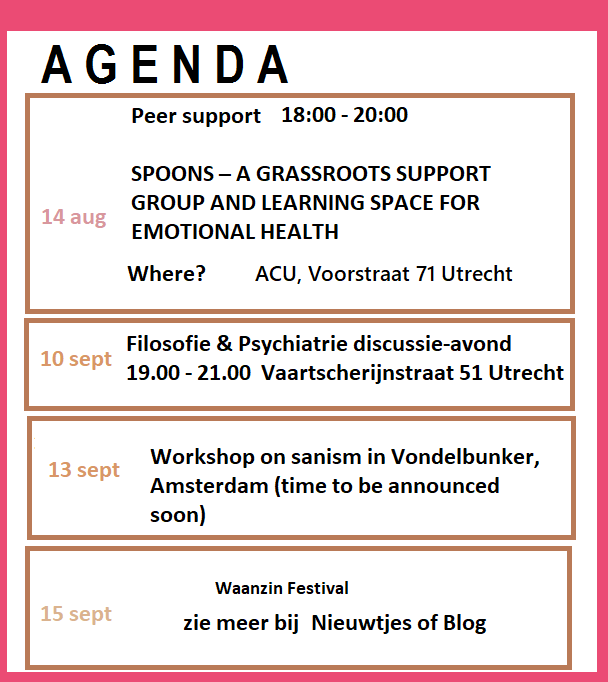
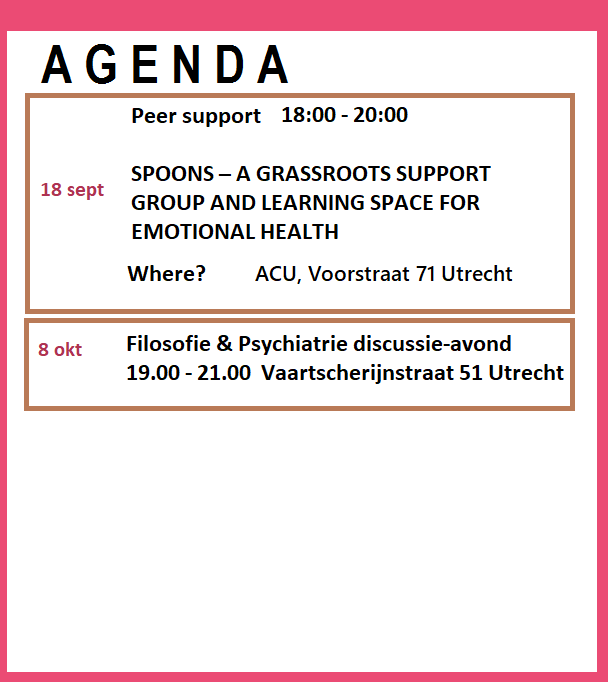
18sep18

Changed region(s): [[0.0312, 0.585, 0.9688, 0.9853], [0.0625, 0.2463, 0.1875, 0.3387], [0.0625, 0.4927, 0.1875, 0.5543]]

diff --git a/nieuws.html b/nieuws.html
@@ -66,12 +66,92 @@
 
 <h2>Nieuws</h2>
 <p><br>
+NIEUW: 16 Sept: <a href=#16sept>De zorgwekkende horizon van 2020 [Dutch]<a><br>
 24 Juli: <a href=#24juli>Een kritische boodschap op Waanzin Festival dit jaar!<a><br>
 23 Juli: <a href=#23juli>A new peer support group starts! Meet Spoons.<a><br>
 10 Mei: <a href=#1mei>Spreekuur 89 speech op 1 Mei: Sloop muren, geen mensen! [Also in English: Our Speech at MayDay. Destroy walls, not people!]</a><br>
 8 April: <a href=#april>Het noodlijdende Weglaufhaus Berlin mag niet ten onder gaan!</a><br>
 8 Maart: <a href=#maart>Spreekuur 89 in de Groene Amsterdammer</a><br><br>
 <br>Ook nieuws te melden? Stuur het naar info@spreekuur89.nl</p>
+
+</section>
+
+
+
+
+
+
+
+<section>
+
+<section class= "middelen4">
+
+
+<h2 id=16sept>Een kritische boodschap op Waanzin Festival dit jaar!</h2>
+<p>
+<i>Posted on 16 Sept<br><br></i>
+
+<b>Op 16 september was ik te zien bij EO programma Nieuw Licht. Hieronder een stuk waarin ik mijn standpunten nog verder uitwerk. Ik heb namelijk grote zorgen.</b><br><br>
+
+
+<iframe width="800" height="500"  src="https://www.youtube.com/watch?v=6K1aPlfgTsU&feature=youtu.be" frameborder="6" align="centre" allowfullscreen></iframe>
+
+
+<br><br>
+De timing van de uitzending lijkt als geroepen te komen. Niet omdat er recent een groot incident is gebeurd, maar waarschijnlijk omdat het Schakelteam Personen met Verward Gedrag over twee weken een aanpak voor ‘personen met verward gedrag’ gaat presenteren. In het Reformatorisch Dagblad lezen we dat de ‘Tweede Kamer boos is over falende aanpak personen met verward gedrag’. Wordt hier extra politieke druk opgelegd? Of wordt er weer een legitimatiebodem gecreerd voor beleid dat de staatsmacht in weerzinwekkende mate gaat vergroten op haar onderdanen? Een gevoel van een veiligheidscrisis wordt gecreerd waardoor we wegkijken naar de echte gevolgen van het beleid dat ons te wachten staat: ‘De Tweede Kamer is boos dat de sluitende aanpak van personen met verward gedrag nog steeds geen feit is en  daarmee het risico dat een enkele ernstig verward persoon gewelddadig zou kunnen worden blijft voortbestaan’. <br><br>
+Ik heb een slachtoffer ontmoet van een ernstig mesincident. Een wildvreemde die opeens op je insteekt. Hij heeft nog steeds levensbedreigend letsel. Ik vind de man erg dapper en genuanceerd en ik gun dit incident aan niemand. Des te meer vind ik het wrang dat zijn verhaal hoogstwaarschijnlijk ‘gebruikt’ zal worden voor het introduceren en rechtvaardigen van een weerzinwekkende beleidsagenda die onschuldigen gaat raken.  Want voor mensen die een ander neersteken hebben we allang een systeem om hen te ‘straffen’ en tot de orde te roepen. Dat het systeem in dit geval faalt, is verbazingwekkend, maar heeft weinig te maken met het nieuwe beleid en met ‘verwarde personen’ zelf. Er is hier een ander probleem aan de hand dan de ‘gevaarlijke verwarde persoon’ die rondloopt als potentiele messteker. Het probleem is dat de staat de situatie tussen slachtoffer en dader geheel overneemt, juridiseert en dat er niet meer naar het slachtoffer wordt geluisterd – die voelt zich vervreemd. Vreselijk voor het slachtoffer! Als ik hem spreek lijkt hij door die behandeling door het OM dubbel getraumatiseerd. <br><br>
+Zelf ben ik er helemaal niet voor dat een OM het overneemt en dat iemand de giftige gevangenis in verdwijnt. Bij elke dader moet gekeken worden wat er gedaan kan worden dat diegene straks een beter medemens wordt voor anderen, niet alleen naar individuele, maar ook naar collectieve factoren moet dan gekeken worden. En bovenaf: ieders eigen verantwoordelijkheid, voor het eigen handelen, moet erkend worden. Anders produceer je bijna daders. Je demoraliseert mensen als je hun morele verantwoordelijkheid ontkent, en ze zo gaat behandelen. Strafrechtmediation, ofwel herstelrecht, is een hoopvolle ontwikkeling. Veel beter voor het slachtoffer om het trauma te verwerken, en het roept de dader directer tot diens morele verantwoordelijkheid. En het is ook nog goedkoper. <br><br>
+<b>Weerzinwekkend beleid aan de horizon</b><br><br>
+Wat is dan die beleidsagenda waar ik me zo’n zorgen over maak, en waarvoor dit verhaal valselijk lijkt te worden aangewend? Wel: de Wet Verplichte Ggz en een heleboel maatregelen die – toevallig of niet? – over krapweg twee weken zullen worden aangekondigd door het Schakelteam Personen met Verward Gedrag. Daar mocht het in de uitzending expliciet nog niet over gaan, om zo is mij verteld in beleidskringen, ‘indianenverhalen’ te voorkomen. Het gaat dan niet alleen om mensen die al een ander hebben aangevallen (en dan gek genoeg ook alleen om het ‘verwarde’ deel van de daders, want bij het overgrote normale deel vinden we het ineens niet zo erg of zo), het gaat ook om mensen waarop geprojecteerd wordt dat zij een potentiele messteker zullen zijn. Zij kunnen straks:<br><br>
+•	Alleen al als een politieagent vermoed dat zij gevaarlijk zijn, zonder strafbare verdenking, maximaal 18 uur worden vastgezet in afwachting van psychiatrisch onderzoek (dat gebeurt overigens al)<br>
+•	De groep waarvan een psychiater vaststelt dat zij gevaarlijk zouden kunnen zijn (overigens volgens een veel breder begrip van gevaar dan ‘iemand anders aanvallen’, zoals ‘ernstig financieel nadeel’ of een toekomstige psychische crisis). Maar psychiatrische risico-taxaties zijn geen raketwetenschap, en een professor gaf een keer toe dat agressie voorspellen ontzettend moeilijk is. Er zullen dus zogenaamde onterechte negatieven blijven: mensen die ‘onterecht’ op straat lopen terwijl ze gevaarlijk zijn. En daar horen we constant over in de media, terwijl geen enkel beleid – behalve een complete politiestaat – dat kan voorkomen. Maar er zijn ook onterechte positieven: mensen die ‘onterecht’ van hun vrijheid worden, mensen die niet gevaarlijk zijn. In een vergelijkbaar politiek debat in Groot-Brittannie waarschuwden psychiaters dat er steeds meer onterechte positieven zullen zijn in deze angstsamenleving, want iedereen kijkt naar psychiaters als het dan toch misgaat. Zo’n dakloze man die op de samenleving loopt te schelden maar verder waarschijnlijk niemand een vlieg kwaad doet: die kan het subject worden van deze praktijken. En we vergeten, dat mensen wiens vrijheid onterecht wordt afgenomen, dat dit ook een hele traumatiserende tragedie is die soms jaren kan duren! Die schrijnende verhalen horen we nooit in de media. Onder de Wet Verplichte Ggz krijgen zij huiszoekingen, kunnen ze gefouilleerd worden in eigen huis, bezoekbeperkingen opgelegd krijgen, communicatiemiddelen-verbod opgelegd krijgen, en gedwongen medicatie. In hun eigen veilige huis! Voor onbepaalde tijd: want het kan telkens worden verlengd. En het is Kafkaesk als de pest: als je daar boos over wordt – wat elk normaal mens zou worden – dan is dat een bewijs van de ernst van jouw toestand. En deze mensen hebben werkelijk niets te maken met een man die over straat loopt en iemand zomaar neersteekt, en toch wordt dit verhaal als voer voor beleidsmakers die de greep van de staat op de afwijkende onderdanen nog groter willen maken. <br>
+•	Daders die als ‘verward’ worden bestempeld die– ook bij lichte delicten – veel langer hun vrijheid verliezen dan ‘normale’ mensen die precies hetzelfde hebben gedaan, omdat eerstgenoemden zogenaamd niet moreel verantwoordelijk zouden zijn voor hun handelen.<br>
+Uitzonderlijk, ook al onder het huidige beleid, is dat de dader er zo licht vanaf komt. Ik ben niet per se voorstander van tbs of gevangenissen. Maar het is wel uitzonderlijk en ongelofelijk, als je het vergelijkt met andere gevallen. Ik ken mensen die voor veel minder, voor iemand slaan in een ruzie – dus met een aanleiding en niet lukraak uit de hoek een vreemde steken – jaren in de tbs verdwijnen. Ik schrijf namelijk brieven met gevangenen of met familieleden van gevangenen. Vaak raak je juist veel langer je vrijheid kwijt als je (gedeeltelijk) ontoerekeningsvatbaar wordt verklaard dan daders die ‘normaal’ worden bevonden, want tbs kan oneindig verlengd worden!<br>
+
+
+<b>
+De keiharde illusie die dit beleid voedt</b><br>
+We zitten eigenlijk vast in een keiharde, historische illusie: dat het normale een superieure morele autoriteit heeft, dat het kwaad elleen vanuit het abnormale komt. Maar het kwad Vanuit elke hoek kan komen, ook vanuit gerespecteerde hoeken. Het is iets vreselijks als een hele bevolking toegeeft aan het idee dat een deel van de bevolking continu onder toezicht moet, verdachte is, onder omstandigheden waaronder geen enkel van hen zelf dat zou accepteren.  Ik schrik heel erg, hier ook weer, van het apart zetten van een zogenaamde groep mensen wiens vrijheid, wiens onschuldige vrijheid, ineens onder vuur moet staan dat dit hier aan de gang is in mijn samenleving. En dit kan echt, dit precies, tot heel tiranniek gedrag leiden, dat losstaat van of men een boog om ons heenloopt, of met ons gaat praten. Soms is dat laatste zelfs nog schadelijker. Het probleem is niet dat de samenleving mensen in de steek zou laten. Heel veel normale mensen maken zich zorgen over mensen die afwijkend doen, of in de knel zitten. Het probleem is een onderdrukkend systeem aan aannames, dat historisch al de wrede neiging heeft gevoed van de gemeenschap van de rede om de waanzin en alles dat afwijkt te detineren, te disciplineren. Zulke aannames zijn niet opeens verdwenen, en zolang dit zo blijft, kan ik niet optimistisch als ik hoor over een campagne die aanspoort tot meer omkijken naar elkaar. Want dan vraag ik me af: Is het omkijken naar elkaar of is het een bepaalde groep in de gaten houden, toezicht houden?<br>
+Er wordt vaak geroepen: maar die man was schizofreen! Die man was psychotisch! Ja dus? Ik ken genoeg psychotici die geen geweldsdelict plegen. Het waanidee hebben dat iemand met je partner naar bed ging en jaloers zijn is één ding. Iemand willen neersteken is een tweede. Dat getuigt van een disrespect voor iemand lijf en leven: iemands vrijheid om gezond en zonder zorgen over aangevallen worden, over straat te gaan. Je had ook met iemand kunnen praten, flink kunnen schreeuwen tegen diegene, diegene flink kunnen uitschelden, en verder kunnen gaan met je leven. Net zoals we onder ‘normale’ mensen rotzakken hebben en mensen die gelukkig wat meer morele verantwoordelijkheid nemen voor hun handelen, is dat ook zo onder psychotici.<br>
+Mensen maken zichzelf al zo lang iets wijs, dat ze mensen die zich op een voor hen onbegrijpelijke wijze gedragen oprecht niet zien als gelijkelijk onschuldig als zij. Men moet leren dat we allemaal gelijkwaardig zijn, van vlees en bloed, we willen uiteindelijk allemaal hetzelfde, vrij zijn van vernedering en aangevallen worden, en we willen allemaal gewoon fijn leven. En bij ieder individu die dat niet respecteert, moeten natuurlijk maatregelen worden getroffen. Maar we kunnen niet één groep bij voorbaat als zondebok uitkiezen omdat we alle geweld willen voorkomen in een samenleving. Sterker nog: we zouden juist daarmee een nieuwe geweldshandeling plegen.<br><br>
+
+
+<b>Een kunstmatige orde in crisis: de angst voor de disruptieve arme</b>
+Disclaimer: er kunnen geen algemene uitspraken worden gedaan over mensen die we verwardheid toeschrijven. Wij tonen een diverse verzameling gedragingen die onbegrijpelijk en afwijkend gevonden werden. Een deel daarvan, niemand weet hoe groot, bevat een groep mensen die in de stress zitten. Het verbaast mij inderdaad niet dat deze groep lijkt te stijgen: we leven in een steeds ongelijker land, met steeds minder betaalbare woningen, en steeds meer flexbanen, steeds meer werkdruk. En het verbaasd me ook niet gezien we in een prestatiemaatschappij leven, die zorgt, zoals de filosoof Byung Chun Han zegt, voor een vermoeide samenleving. Je moet economisch succesvol zijn, anders ben je een soort totale loser. Steeds meer mensen zijn dat zat, dat komt ook terug in mijn statistieken: in OECD landen, 40% tot 60% van de mensen vind dat de samenleving teveel nadruk legt op werken en rijk worden. 40 tot 60% (World Values Survey)! <br>
+Het systeem verliest legitimiteit, en heeft daarom meer dwang nodig. Meer vroegsignalering, meer risicotaxaties, wetten die het makkelijker maken om mensen buitenstrafrechtelijk te onderwerpen aan huiszoekingen en gedwongen medicatie. Want Nederland is toch een een gaaf land? zei Rutte. Iedereen waarmee het niet goed gaat, die last heeft van de neoliberale caroussel, die hebben we even apart gezet en als vreemd bestempeld. Vind je Nederland niet zo tof? Dan ben je in de war! Deze kunstmatige neoliberale orde heeft het kennelijk nodig om steeds vaker mensen abrupt van hun vrijheid te beroven,  door politie of psycholances te laten oppikken als zij te hard schreeuwen tegen dit systeem – zoals die dakloze man in het filmpje (waarover Tijs van den Brink inmiddels een <a href="https://visie.eo.nl/2018/09/de-meeste-verwarde-mensen-zijn-aardig/">mooi stuk</a> heeft geschreven). De meeste 'verwarde' mensen zijn aardig, net als de meeste normale mensen aardig zijn.<br> 
+Stel jij bent dakloos geworden door allerlei nadelen in de samenleving: woningtekort, onmogelijkheid zonder kapitaal een zaak te beginnen, onmogelijkheid om als excentriek persoon een baan te krijgen met solliciteren. Wat zou je dan doen als iemand met een camera op je af stapt met een kinderlijke toon: ‘Waarom sta je in de regen?’<br>
+Wel, omdat ik dakloos ben toch? (duh)<br>
+Het wordt je teveel, je gaat los op die samenleving die jou uitsluit van woningen, banen, en alleen laat meedoen als je in het smalle straatje past van de ‘sane citizen’. En je gaat door! Je relaas begint als een protestpreek te klinken, het compenseert je schaamte, fantastisch!
+En nog word je toegesproken als de ‘verwarde man’. Je stuurt ze weg. Je bent niet achterlijk, je hebt dat toontje – ook al is het nog zo goedbedoeld – wel door. Het gaat niet om intenties, maar om diepliggende aannames en gedrag. Je hebt geen zin om ze uit te leggen dat deze interactie niet gelijkwaardig is, je hebt al genoeg voor je kiezen en het is niet jouw verantwoordelijkheid hen dat te leren.<br>
+Vervolgens wordt er gezegd dat jij boos werd op hen, en geen coherent antwoord gaf op hun vragen. Dat het wel een beetje griezelig is om met jou te praten. En dan gaan we weer snel over naar de plotselinge messteker. Dit doet de media al jaren. Snel switchen, mensen op een glijdende schaal plaatsen. Maar zoals de straatpastor in de uitzending al zei: iedereen heeft het recht als mens gezien te worden.<br>
+Ik vind het erg mooi wat Rikko, columnist van Nieuw Licht, zegt: “Als ik ’s ochtends vroeg terugfietste van mijn ‘dienst’, riekend naar zware shag en andere ondefinieerbare geuren, en om me heen keek naar de ramen waarachter mensen in relatieve luxe zich opmaakten voor een nieuwe dag van werk en andere bezigheden – ‘dakhebbende mensen’ – voelde ik iets van de enorme kloof tussen de wereld van daklozen en de ‘gewone’ maatschappij. Toen begreep ik pas – en het is op papier bijna niet uit te leggen – hoe schier onoverbrugbaar de mentale afstand is tussen degen die lange tijd op straat woont en mensen die nooit hebben ervaren hoe het is om zo te moeten leven.”<br>
+Maar die dakloze, en die andere disruptieve armen die alleen het systeem willen smashen, niet meer mee willen doen, en niet de onschuldige medeburger gaan neersteken – die mensen, worden het subject van het nieuwe repressiebeleid tegen ‘verwarde personen’. We krijgen, zoals de socioloog Loic Wacquant zegt, mogelijk een perfecte neoliberale strafstaat tegen de disruptieve arme. Nog veel ‘slimmer’ dan de Amerikaanse variant, want het gevangeniscijfer daalt al bijna tien jaar. Mensen worden daarentegen in hun eigen huizen en hoofden opgesloten.<br><br>
+Ik wil hier geen onderdeel van zijn. Ik zal me ertegen verzetten. Daarom schrijf ik dit stuk. 
+
+
+
+
+
+
+<br><br>
+
+
+</b>
+
+
+<br><br></p>
+</section>
+
+
+
+
+
+<section class= "middelen3">
+
+
+
+
+</p>
 
 </section>
 

diff --git a/blog.html b/blog.html
@@ -100,6 +100,9 @@ Oude artikelen:<br>
 </section>
 
 
+
+
+
 <section>
 
 <section class= "middelen4">
@@ -110,6 +113,12 @@ Oude artikelen:<br>
 <i>Posted on 16 Sept<br><br></i>
 
 <b>Op 16 september was ik te zien bij EO programma Nieuw Licht. Hieronder een stuk waarin ik mijn standpunten nog verder uitwerk. Ik heb namelijk grote zorgen.</b><br><br>
+
+
+<iframe width="800" height="500"  src="https://www.youtube.com/watch?v=6K1aPlfgTsU&feature=youtu.be" frameborder="6" align="centre" allowfullscreen></iframe>
+
+
+<br><br>
 De timing van de uitzending lijkt als geroepen te komen. Niet omdat er recent een groot incident is gebeurd, maar waarschijnlijk omdat het Schakelteam Personen met Verward Gedrag over twee weken een aanpak voor ‘personen met verward gedrag’ gaat presenteren. In het Reformatorisch Dagblad lezen we dat de ‘Tweede Kamer boos is over falende aanpak personen met verward gedrag’. Wordt hier extra politieke druk opgelegd? Of wordt er weer een legitimatiebodem gecreerd voor beleid dat de staatsmacht in weerzinwekkende mate gaat vergroten op haar onderdanen? Een gevoel van een veiligheidscrisis wordt gecreerd waardoor we wegkijken naar de echte gevolgen van het beleid dat ons te wachten staat: ‘De Tweede Kamer is boos dat de sluitende aanpak van personen met verward gedrag nog steeds geen feit is en  daarmee het risico dat een enkele ernstig verward persoon gewelddadig zou kunnen worden blijft voortbestaan’. <br><br>
 Ik heb een slachtoffer ontmoet van een ernstig mesincident. Een wildvreemde die opeens op je insteekt. Hij heeft nog steeds levensbedreigend letsel. Ik vind de man erg dapper en genuanceerd en ik gun dit incident aan niemand. Des te meer vind ik het wrang dat zijn verhaal hoogstwaarschijnlijk ‘gebruikt’ zal worden voor het introduceren en rechtvaardigen van een weerzinwekkende beleidsagenda die onschuldigen gaat raken.  Want voor mensen die een ander neersteken hebben we allang een systeem om hen te ‘straffen’ en tot de orde te roepen. Dat het systeem in dit geval faalt, is verbazingwekkend, maar heeft weinig te maken met het nieuwe beleid en met ‘verwarde personen’ zelf. Er is hier een ander probleem aan de hand dan de ‘gevaarlijke verwarde persoon’ die rondloopt als potentiele messteker. Het probleem is dat de staat de situatie tussen slachtoffer en dader geheel overneemt, juridiseert en dat er niet meer naar het slachtoffer wordt geluisterd – die voelt zich vervreemd. Vreselijk voor het slachtoffer! Als ik hem spreek lijkt hij door die behandeling door het OM dubbel getraumatiseerd. <br><br>
 Zelf ben ik er helemaal niet voor dat een OM het overneemt en dat iemand de giftige gevangenis in verdwijnt. Bij elke dader moet gekeken worden wat er gedaan kan worden dat diegene straks een beter medemens wordt voor anderen, niet alleen naar individuele, maar ook naar collectieve factoren moet dan gekeken worden. En bovenaf: ieders eigen verantwoordelijkheid, voor het eigen handelen, moet erkend worden. Anders produceer je bijna daders. Je demoraliseert mensen als je hun morele verantwoordelijkheid ontkent, en ze zo gaat behandelen. Strafrechtmediation, ofwel herstelrecht, is een hoopvolle ontwikkeling. Veel beter voor het slachtoffer om het trauma te verwerken, en het roept de dader directer tot diens morele verantwoordelijkheid. En het is ook nog goedkoper. <br><br>
@@ -130,7 +139,7 @@ Mensen maken zichzelf al zo lang iets wijs, dat ze mensen die zich op een voor h
 
 <b>Een kunstmatige orde in crisis: de angst voor de disruptieve arme</b>
 Disclaimer: er kunnen geen algemene uitspraken worden gedaan over mensen die we verwardheid toeschrijven. Wij tonen een diverse verzameling gedragingen die onbegrijpelijk en afwijkend gevonden werden. Een deel daarvan, niemand weet hoe groot, bevat een groep mensen die in de stress zitten. Het verbaast mij inderdaad niet dat deze groep lijkt te stijgen: we leven in een steeds ongelijker land, met steeds minder betaalbare woningen, en steeds meer flexbanen, steeds meer werkdruk. En het verbaasd me ook niet gezien we in een prestatiemaatschappij leven, die zorgt, zoals de filosoof Byung Chun Han zegt, voor een vermoeide samenleving. Je moet economisch succesvol zijn, anders ben je een soort totale loser. Steeds meer mensen zijn dat zat, dat komt ook terug in mijn statistieken: in OECD landen, 40% tot 60% van de mensen vind dat de samenleving teveel nadruk legt op werken en rijk worden. 40 tot 60% (World Values Survey)! <br>
-Het systeem verliest legitimiteit, en heeft daarom meer dwang nodig. Meer vroegsignalering, meer risicotaxaties, wetten die het makkelijker maken om mensen buitenstrafrechtelijk te onderwerpen aan huiszoekingen en gedwongen medicatie. Want Nederland is toch een een gaaf land? zei Rutte. Iedereen waarmee het niet goed gaat, die last heeft van de neoliberale caroussel, die hebben we even apart gezet en als vreemd bestempeld. Vind je Nederland niet zo tof? Dan ben je in de war! Deze kunstmatige neoliberale orde heeft het kennelijk nodig om steeds vaker mensen abrupt van hun vrijheid te beroven,  door politie of psycholances te laten oppikken als zij te hard schreeuwen tegen dit systeem – zoals die dakloze man in het filmpje (waarover ik hieronder in het stuk nog mijn commentaar lever). <br>
+Het systeem verliest legitimiteit, en heeft daarom meer dwang nodig. Meer vroegsignalering, meer risicotaxaties, wetten die het makkelijker maken om mensen buitenstrafrechtelijk te onderwerpen aan huiszoekingen en gedwongen medicatie. Want Nederland is toch een een gaaf land? zei Rutte. Iedereen waarmee het niet goed gaat, die last heeft van de neoliberale caroussel, die hebben we even apart gezet en als vreemd bestempeld. Vind je Nederland niet zo tof? Dan ben je in de war! Deze kunstmatige neoliberale orde heeft het kennelijk nodig om steeds vaker mensen abrupt van hun vrijheid te beroven,  door politie of psycholances te laten oppikken als zij te hard schreeuwen tegen dit systeem – zoals die dakloze man in het filmpje (waarover Tijs van den Brink inmiddels een <a href="https://visie.eo.nl/2018/09/de-meeste-verwarde-mensen-zijn-aardig/">mooi stuk</a> heeft geschreven). De meeste 'verwarde' mensen zijn aardig, net als de meeste normale mensen aardig zijn.<br> 
 Stel jij bent dakloos geworden door allerlei nadelen in de samenleving: woningtekort, onmogelijkheid zonder kapitaal een zaak te beginnen, onmogelijkheid om als excentriek persoon een baan te krijgen met solliciteren. Wat zou je dan doen als iemand met een camera op je af stapt met een kinderlijke toon: ‘Waarom sta je in de regen?’<br>
 Wel, omdat ik dakloos ben toch? (duh)<br>
 Het wordt je teveel, je gaat los op die samenleving die jou uitsluit van woningen, banen, en alleen laat meedoen als je in het smalle straatje past van de ‘sane citizen’. En je gaat door! Je relaas begint als een protestpreek te klinken, het compenseert je schaamte, fantastisch!

diff --git a/index.html b/index.html
@@ -132,7 +132,7 @@
 
 <h2>TIPS EN NIEUWS</h2>
 
-<p>Op 10 september hebben we weer een <a href="https://www.enikrecoverycollege.nl/trainingen/discussieavond-psychiatrie-en-filosofie-spreekuur89/">Filosofie en Psychiatrie discussie-avond!</a>. En geinspireerd door een van onze workshops, is er een <b>peer support groep</b> gestart in Utrecht! De eerste sessie vindt plaats op <a href="https://madpride.nl/">14 augustus in de ACU, Voorstraat 71</a>. Verder stond Spreekuur 89 in <a href="https://www.groene.nl/artikel/de-grip-kwijt">de Groene</a> en is er weer nieuw <a href="actiemateriaal.html">actiemateriaal</a> verkrijgbaar.
+<p>Onze kartrekker in de media bij <a href="https://www.uitzendinggemist.net/aflevering/447838/Nieuwlicht.html">Nieuw Licht</a>. Lees <a href="blog.html"> het uitgebreide artikel. Op 8 oktober hebben we weer een <a href="https://www.enikrecoverycollege.nl/trainingen/discussieavond-psychiatrie-en-filosofie-spreekuur89/">Filosofie en Psychiatrie discussie-avond!</a> verkrijgbaar.
 
 
 <br><br>Je kunt je voor regelmatige tips en nieuws abonneren op de nieuwsbrief. Stuur een mailtje naar <h2>info@spreekuur89.nl of spreekuur89@riseup.net</h2>

diff --git a/filosofie2.html b/filosofie2.html
@@ -65,7 +65,7 @@
 
 <h2>Filosofieworkshops</h2>
 <p>
-In 2018 startten we met discussie-avonden 'Filosofie en Psychiatrie'. De volgende sessie zal <b>10 september</b> zijn om 19:00 bij Enik Recovery College, Vaartscherijnstraat 51 in Utrecht.
+In 2018 startten we met discussie-avonden 'Filosofie en Psychiatrie'. De volgende sessie zal <b>8 oktober</b> zijn om 19:00 bij Enik Recovery College, Vaartscherijnstraat 51 in Utrecht.
 <br> Voor het volgen van deze sessie is het niet vereist om de voorgaande sessies gevolgd te hebben.
 Op de hoogte blijven? Schrijf je in op de nieuwsbrief via een mail naar info@spreekuur89.nl Je kunt je ook bij dit mailadres aanmelden voor de discussie-avond, zodat we weten hoeveel mensen er komen.<br><br>
 <b>Voor wie?</b><br>
